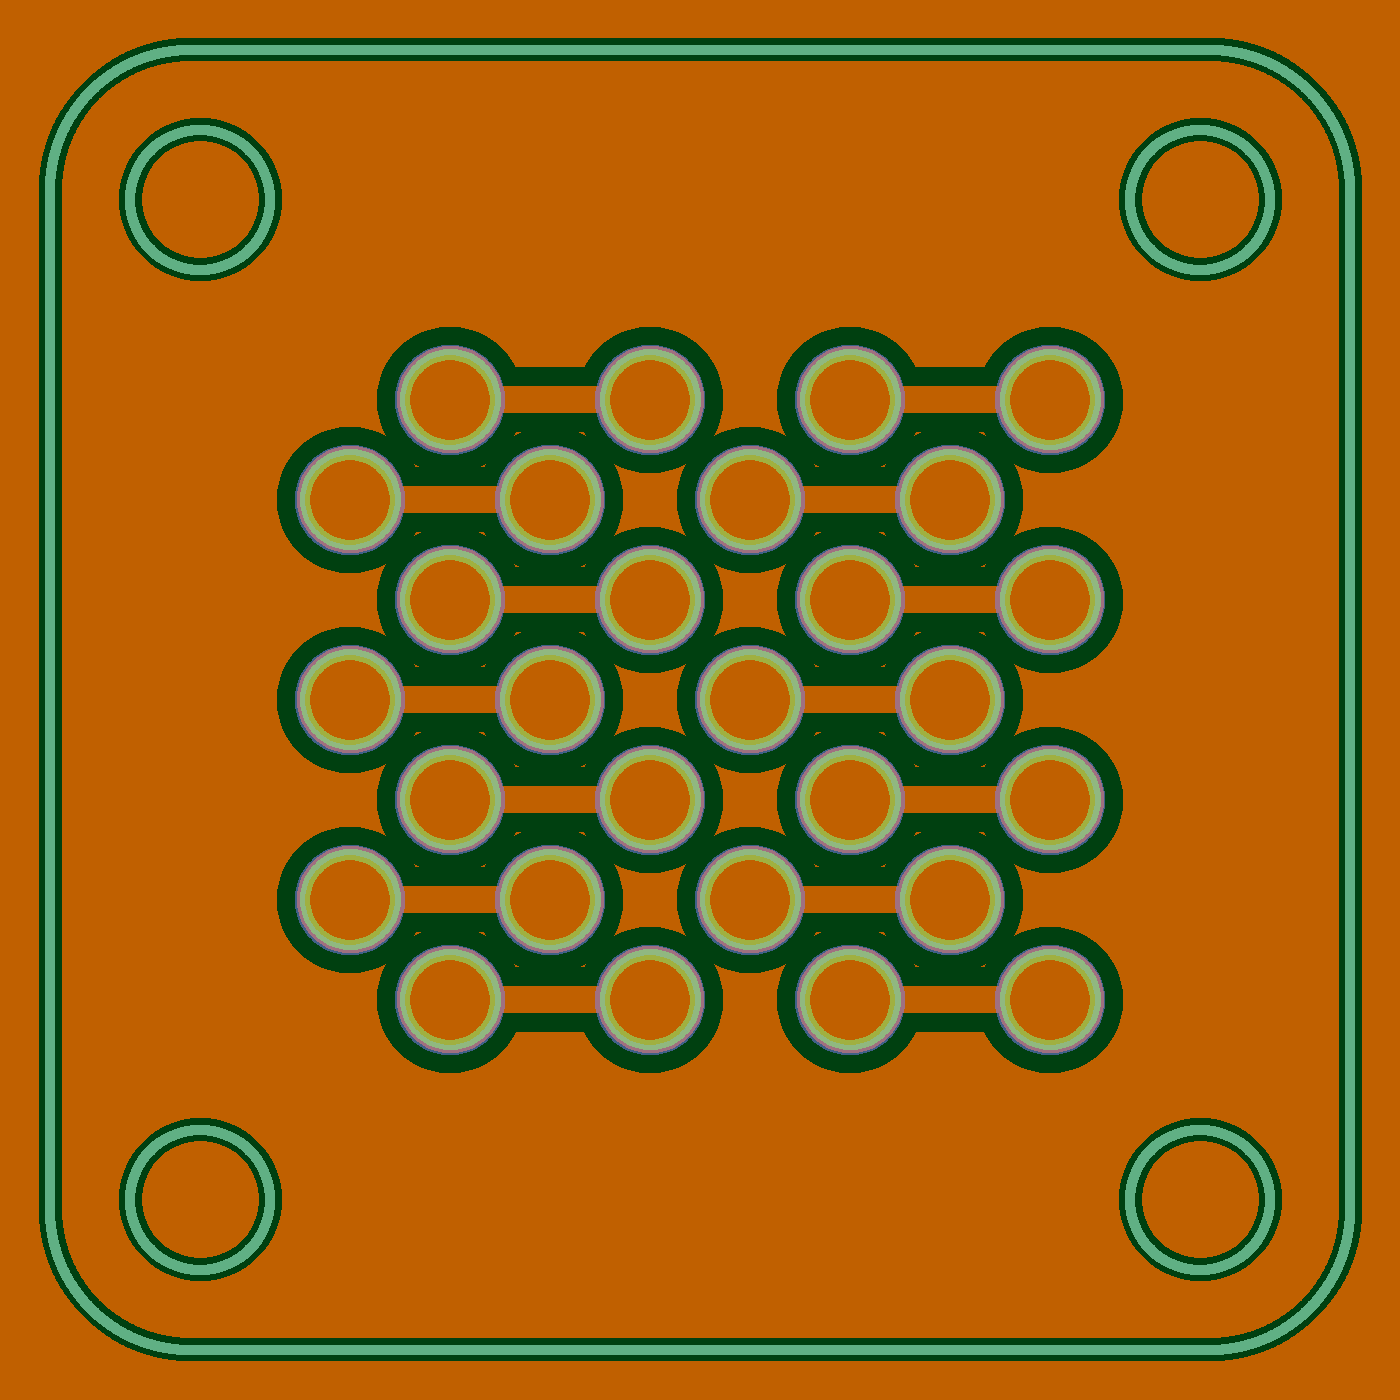
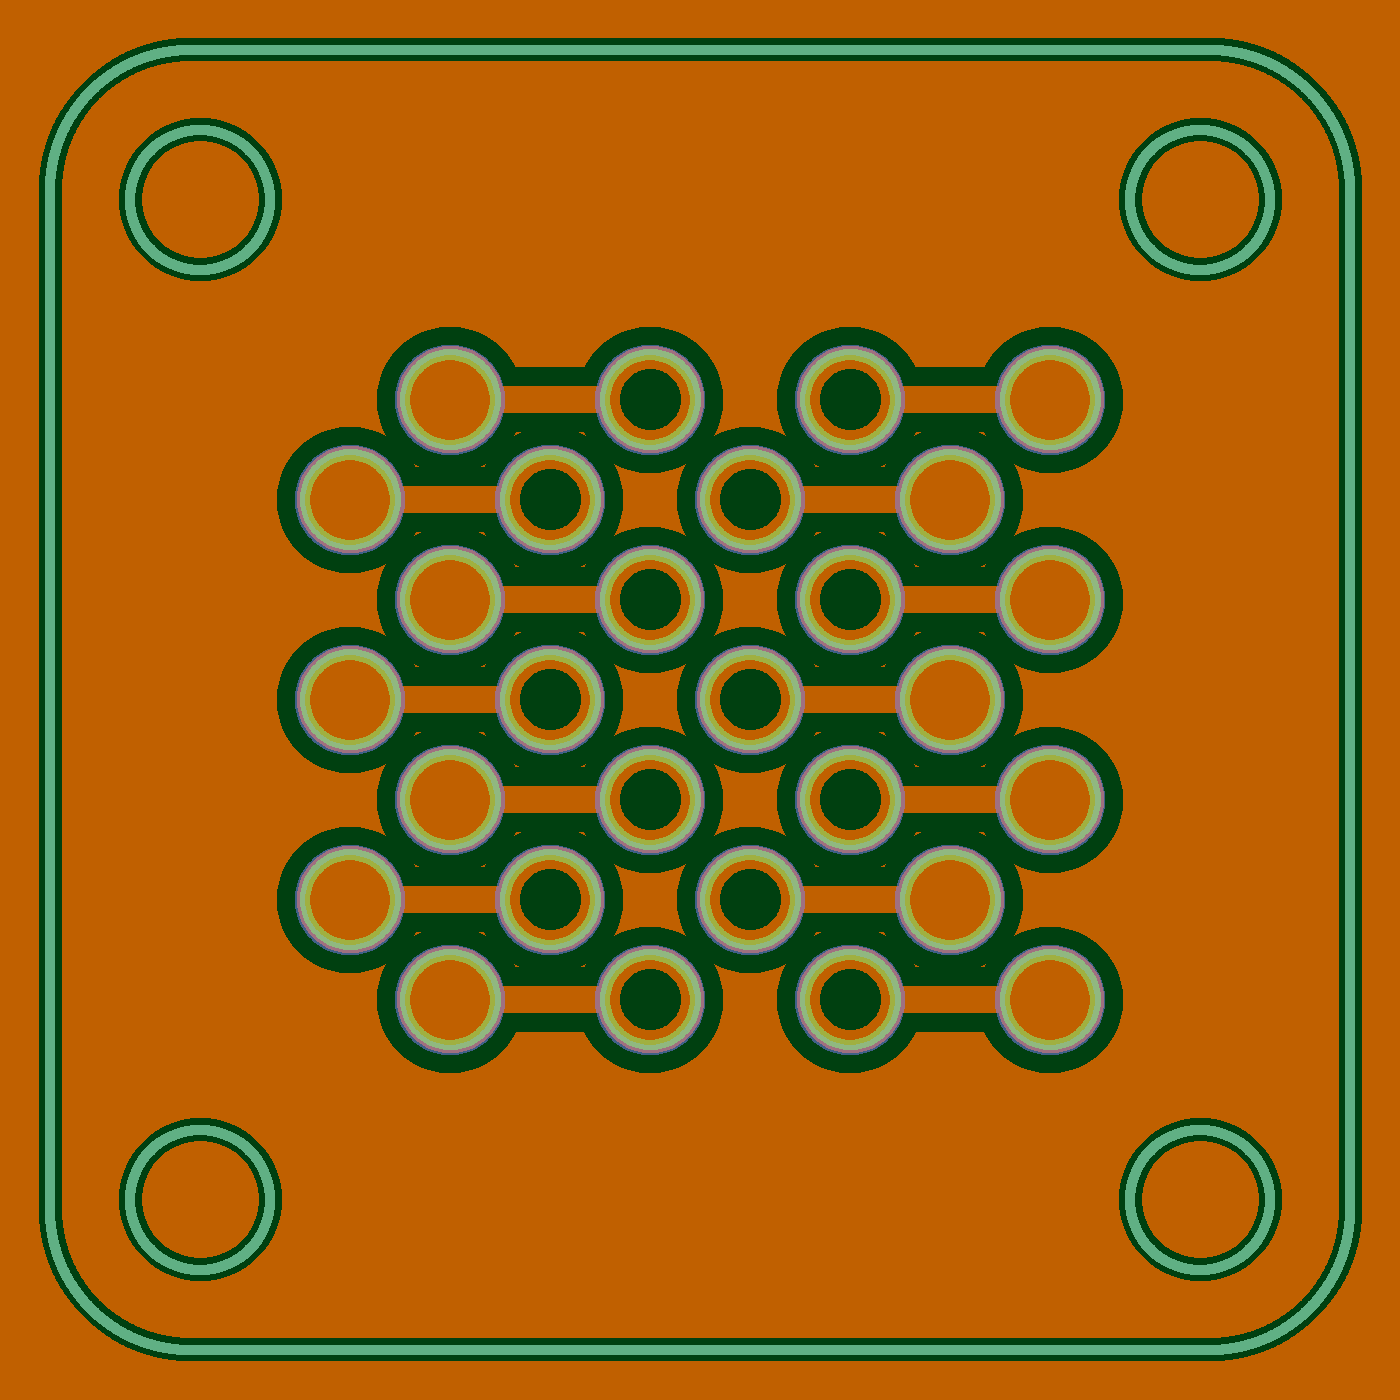
Introduce component's Vias property

diff --git a/eda/pcb/etch.go b/eda/pcb/etch.go
@@ -150,6 +150,10 @@ func SaveEtch(config *config.Config, component *eda.Component) (*bitmap.Bitmap, 
 		}
 	})
 
+	component.Visit(func(c *eda.Component) {
+		removeViaCopper(config, c, copper)
+	})
+
 	filename := config.SavePath + "etch.lbrn"
 	im := image.NewSingle(copper, color.Black, color.White)
 	bm := lbrn.NewBase64Bitmap(im)
@@ -191,6 +195,13 @@ func removeEtchCopper(config *config.Config, component *eda.Component, copper *b
 	// Tracks
 	trackBrush := shape.Circle(int((component.TracksWidth + clearWidth) * config.PixelsPerMM))
 	trackBrush.ForEachPathsPixel(component.Tracks, t, copper.Set1)
+}
+
+func removeViaCopper(config *config.Config, component *eda.Component, copper *bitmap.Bitmap) {
+	t := component.Transform.Multiply(config.BitmapTransform())
+
+	// Vias
+	shape.ForEachRow(component.Vias, t, copper.Set1)
 }
 
 func addEtchCopper(config *config.Config, component *eda.Component, copper *bitmap.Bitmap) {

diff --git a/eda/component.go b/eda/component.go
@@ -30,6 +30,8 @@ type Component struct {
 	ClearWidth float64
 	ClearNone  bool
 
+	Vias path.Paths
+
 	Inner []*Component
 }
 
@@ -64,6 +66,8 @@ func (c *Component) visit(t transform.T, parent *Component, callback func(*Compo
 
 		ClearWidth: c.ClearWidth,
 		ClearNone:  c.ClearNone || parent.ClearNone,
+
+		Vias: c.Vias,
 	}
 
 	if target.Layer == 0 {

diff --git a/eda/lib/via/via.go b/eda/lib/via/via.go
@@ -22,6 +22,8 @@ func Via(layer1, layer2 int) *eda.Component {
 				Layer: layer1,
 
 				Pads: path.Paths{path.Circle(topDiameter)},
+
+				Vias: path.Paths{path.Circle(viaDiameter)},
 			},
 
 			&eda.Component{
